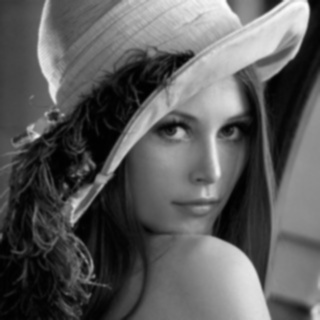
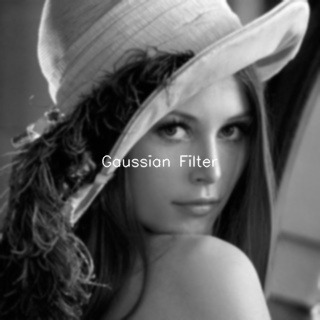
add box filter
added box filter and added a method to put text onto the image to distinguish the filter type.

Changed region(s): [[0.3125, 0.4688, 0.5312, 0.5312], [0.5625, 0.4688, 0.6875, 0.5312]]

diff --git a/5_filters.py b/5_filters.py
@@ -1,8 +1,43 @@
-import numpy as np
 import cv2
+import numpy as np
+import matplotlib.pyplot as plt
 
 # Load the input image
-input_image = cv2.imread(".\input_images\image-1.jpg", cv2.IMREAD_GRAYSCALE)
+input_image = cv2.imread("./input_images/image-1.jpg", cv2.IMREAD_GRAYSCALE)
+
+
+####################
+# Method to put text on the center of an image
+####################
+
+
+def put_text_on_center(
+    image,
+    text,
+    font=cv2.FONT_HERSHEY_SIMPLEX,
+    font_scale=0.5,
+    color=(255, 255, 255),
+    thickness=1,
+):
+    # Get the dimensions of the image
+    height, width = 320, 320
+
+    # Calculate the size of the text to be placed
+    text_size = cv2.getTextSize(text, font, font_scale, thickness)[0]
+
+    # Calculate the position to place the text at the center
+    x = int((width - text_size[0]) / 2)
+    y = int((height + text_size[1]) / 2)
+
+    # Create a copy of the input image to avoid modifying the original image
+    image_with_text = image.copy()
+
+    # Put the text on the image
+    cv2.putText(
+        image_with_text, text, (x, y), font, font_scale, color, thickness, cv2.LINE_AA
+    )
+
+    return image_with_text
 
 
 ####################
@@ -84,7 +119,7 @@ def gaussianFunction(x, y, sigma):
 
 
 # Create a Gaussian kernel
-def create_gaussian_kernel(size, sigma):
+def create_gaussian_kernel(sigma, size):
     kernel = np.fromfunction(
         lambda x, y: gaussianFunction(x - (size - 1) / 2, y - (size - 1) / 2, sigma),
         (size, size),
@@ -98,34 +133,39 @@ def gaussian_filter(image, kernel):
 
 
 ####################
-# 4. Sobel Filter
+# 4. Box Filter
 ####################
 
 
-def sobel_filter(image):
-    # Define Sobel filter kernels for horizontal and vertical edges
-    sobel_x = np.array([[-1, 0, 1], [-2, 0, 2], [-1, 0, 1]], dtype=np.float32)
+def box_filter(image, kernel_size):
+    # Get the dimensions of the image
+    height, width = image.shape
 
-    sobel_y = np.array([[-1, -2, -1], [0, 0, 0], [1, 2, 1]], dtype=np.float32)
+    # Create an output image with the same dimensions as the input
+    output = np.zeros((height, width), dtype=np.uint8)
 
-    # Apply convolution to the image using the Sobel kernels
-    gradient_x = cv2.filter2D(image, -1, sobel_x)
-    gradient_y = cv2.filter2D(image, -1, sobel_y)
+    # Calculate the padding required based on the kernel size
+    pad = kernel_size // 2
 
-    # Combine the gradient magnitudes
-    gradient_magnitude = np.sqrt(gradient_x**2 + gradient_y**2)
+    # Iterate over each pixel in the image
+    for i in range(pad, height - pad):
+        for j in range(pad, width - pad):
+            # Extract the neighborhood around the current pixel
+            neighborhood = image[i - pad : i + pad + 1, j - pad : j + pad + 1]
 
-    # Perform normalization to map values to the 0-255 range
-    gradient_magnitude = cv2.normalize(
-        gradient_magnitude, None, 0, 255, cv2.NORM_MINMAX, cv2.CV_8U
-    )
+            # Calculate the mean value of the neighborhood
+            mean_value = np.mean(neighborhood)
 
-    return gradient_magnitude
+            # Assign the mean value to the output image
+            output[i, j] = mean_value
+
+    return output
 
 
 ####################
 # 5. Laplacian Filter
 ####################
+
 
 def laplacian_filter(image):
     # Define the Laplacian filter kernel
@@ -149,36 +189,42 @@ sigma = 1.0
 
 
 # Apply filters
-mean_filtered = mean_filter(input_image, kernel_size)
-median_filtered = median_filter(input_image, kernel_size)
+mean_filtered = put_text_on_center(mean_filter(input_image, kernel_size), "Mean Filter")
+median_filtered = put_text_on_center(
+    median_filter(input_image, kernel_size), "Median Filter"
+)
 
 # Create the Gaussian kernel
-gaussian_kernel = create_gaussian_kernel(kernel_size, sigma)
+gaussian_kernel = create_gaussian_kernel(sigma, kernel_size)
 
-gaussian_filtered = gaussian_filter(input_image, gaussian_kernel)
+gaussian_filtered = put_text_on_center(
+    gaussian_filter(input_image, gaussian_kernel), "Gaussian Filter"
+)
 
-# sobel_filtered = sobel_filter(input_image)
-laplacian_filtered = laplacian_filter(input_image)
+box_filtered = put_text_on_center(box_filter(input_image, kernel_size), "Box Filter")
+laplacian_filtered = put_text_on_center(
+    laplacian_filter(input_image), "Laplacian Filter"
+)
 
 # Save the results in a single output file
 output_image = np.hstack(
     (
-        input_image,
+        put_text_on_center(input_image, "Input Image"),
         mean_filtered,
         median_filtered,
         gaussian_filtered,
-        # sobel_filtered,
+        box_filtered,
         laplacian_filtered,
     )
 )
 cv2.imwrite("output_image.jpg", output_image)
 
 # Display and save the individual filtered images if needed
-cv2.imwrite(".\output_images\mean_filtered.jpg", mean_filtered)
-cv2.imwrite(".\output_images\median_filtered.jpg", median_filtered)
-cv2.imwrite(".\output_images\gaussian_filtered.jpg", gaussian_filtered)
-# cv2.imwrite(".\output_images\sobel_filtered.jpg", sobel_filtered)
-cv2.imwrite(".\output_images\laplacian_filtered.jpg", laplacian_filtered)
+cv2.imwrite("./output_images/mean_filtered.jpg", mean_filtered)
+cv2.imwrite("./output_images/median_filtered.jpg", median_filtered)
+cv2.imwrite("./output_images/gaussian_filtered.jpg", gaussian_filtered)
+cv2.imwrite("./output_images/box_filtered.jpg", box_filtered)
+cv2.imwrite("./output_images/laplacian_filtered.jpg", laplacian_filtered)
 
 # Optionally, display the output image
 cv2.imshow("Output Image", output_image)
